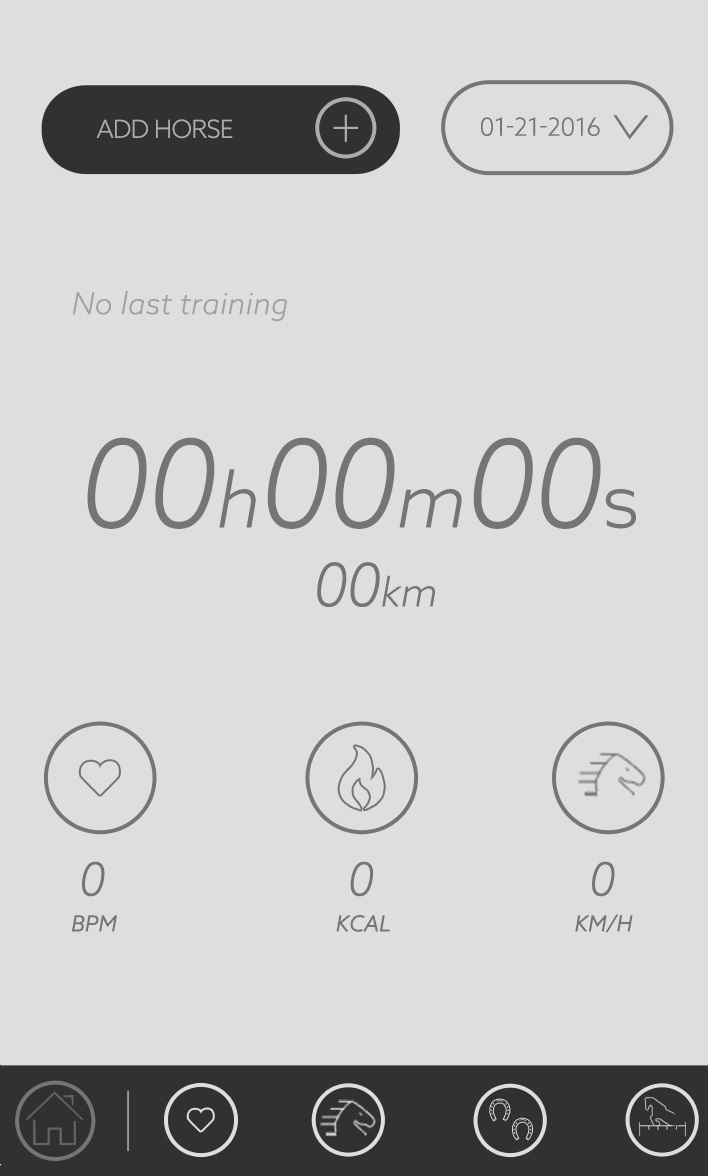
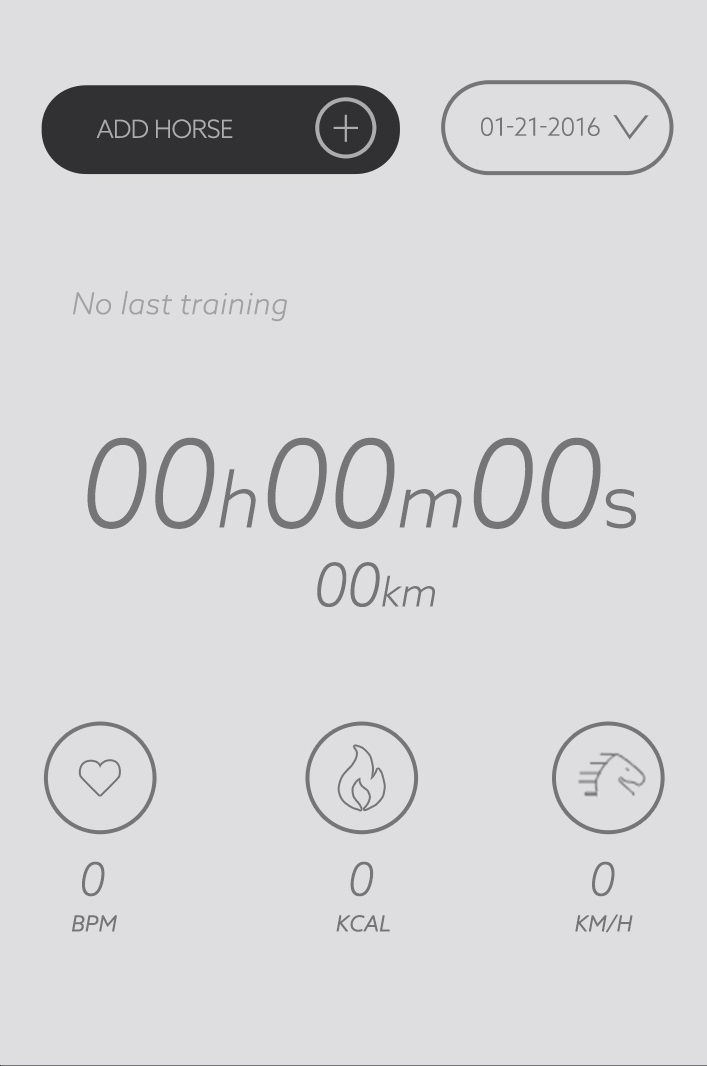
debut phase 2

diff --git a/src/components/createUser.js b/src/components/createUser.js
@@ -1,16 +1,20 @@
 import React, {Component} from 'react';
-import { Text, View } from 'react-native';
+import { Text, View, TouchableOpacity, Image, Platform } from 'react-native';
 import { connect } from 'react-redux';
 import {Button , FormInput, FormLabel, ButtonGroup  } from 'react-native-elements';
 import {distanceSelected,burnCalSelected, weightSelected,
    FirstChanged, lastChanged, weightChanged, createProfil} from '../actions';
+import { ImagePicker } from 'expo';
+import {firebase} from '../firebase/firebase';
+import b64 from 'base64-js'
 
 class CreateUser extends Component {
 
   state ={
     indexdist: 0,
     indexburn:0,
-    indexweight:0
+    indexweight:0,
+    image:''
   }
   FirstChanged =(firstName) =>{
     this.props.FirstChanged(firstName)
@@ -33,7 +37,28 @@ class CreateUser extends Component {
     this.setState({indexweight: index});
     this.props.weightSelected(index);
   }
+  ImageSelected = async () =>{
+    let result = await ImagePicker.launchImageLibraryAsync({
+      base64:true,
+      aspect:[3,5],
+      allowsEditing:true
+    });
 
+    
+
+    if (!result.cancelled) {
+      this.setState({ image: result.uri });
+      const byteArray = b64.toByteArray(result.base64)
+      const metadata = {contentType: 'image/jpg'};
+      firebase.storage().ref('/images').put(byteArray, metadata).then(snapshot => {
+          console.log("uploaded image!")
+      })
+     
+    }
+  }
+
+
+   
   onSubmit=()=>{
     const { email, firstName, lastName ,weight,
     distanceUnit,
@@ -48,21 +73,30 @@ class CreateUser extends Component {
     return (
       
       <View style={{marginTop:80}}>
-     
+      
       <View style={styles.containerStyle}>
-      <View style={{ marginBottom: 10}}>
+      <View style={{justifyContent:'center', alignItems:'center', margin:15}}>
+      <TouchableOpacity 
+      onPress={this.ImageSelected}
+      style={{borderColor:'#fff', borderWidth:1,width:100, height:100, 
+      borderRadius:50, justifyContent:'center', alignItems:'center'}}>
+      <Image source={this.state.image ? {uri: this.state.image}:require('../../image/icon/Avatar.png')}
+      style={{borderColor:'#fff', borderWidth:1,width:100, height:100, 
+      borderRadius:50}}/>
+      </TouchableOpacity>
+      </View>
+
+      <View style={{ marginBottom: 20}}>
         <FormInput
          placeholder="FIRST NAME"
          value={this.props.auth.firstName}
          onChangeText={this.FirstChanged}
          inputStyle={styles.inputFormStyle}
          containerStyle={styles.containerFormStyle}
-        
-        
         />
       </View>
 
-      <View style={{ marginBottom: 10 }}>
+      <View style={{ marginBottom: 20 }}>
         <FormInput
          placeholder="LAST NAME"
          value={this.props.auth.lastName}
@@ -71,7 +105,8 @@ class CreateUser extends Component {
          containerStyle={styles.containerFormStyle}
          />
       </View>
-      <View style={{ marginBottom: 10 }}>
+
+      <View style={{ marginBottom: 20 }}>
       <FormInput
        placeholder="WEIGHT"
        value={this.props.auth.weight}
@@ -81,6 +116,7 @@ class CreateUser extends Component {
        keyboardType={'numeric'}
        />
     </View>
+
     </View>
     <View style={{borderBottomColor: '#BEC0C0' , marginLeft:35,marginRight:35, borderBottomWidth: 2,}} />
     
@@ -134,8 +170,8 @@ class CreateUser extends Component {
     <Button title="DONE"
     onPress={this.onSubmit} 
     borderRadius={30} textStyle={{fontSize: 20 }}
-    containerViewStyle={{width:200 }}
-    buttonStyle={{ backgroundColor:'#757575'}}/>
+    containerViewStyle={{width:200, marginBottom:10 }}
+    buttonStyle={{backgroundColor:'#757577'}} />
     </View>
       </View>
     );
@@ -148,14 +184,14 @@ const mapStateToProps = (state) =>{
 }
 const styles = {
   containerStyle:{
-    backgroundColor: '#BEC0C0',
+    backgroundColor: '#ACACAE',
     margin:30,
     borderRadius: 15,
     borderWidth: 1,
-    borderColor: '#BEC0C0',
+    borderColor: '#ACACAE',
   },
   containerFormStyle:{
-    borderBottomColor:'#D7D8D8',
+    borderBottomColor:'#BEC0C0',
      
   },
   inputFormStyle:{
@@ -164,9 +200,11 @@ const styles = {
     width:'100%'
   },
   labelStyle:{
-    color:'#919191',
+    color:'grey',
     fontSize:10,
-    fontWeight:'400'
+    fontWeight:'400',
+    marginTop:20,
+    marginBottom:10
   },
   bouttonContainerStyle:{
     height: 30,

diff --git a/src/screens/Home.js b/src/screens/Home.js
@@ -1,25 +1,27 @@
 import React, {Component} from 'react';
-import { Text, View, ImageBackground } from 'react-native';
+import { Text, View, ImageBackground,Image } from 'react-native';
 import { Button} from 'react-native-elements';
 import Icon from 'react-native-vector-icons/MaterialCommunityIcons';
 
 export default class Home extends Component {
   static navigationOptions= ({ navigation})=>({
-//     title: 'Seaver',
-//     headerLeft: (
-//       <Button 
-          
-//           icon={{ name: 'menu',
-//         color:'black',
-//       size: 35}}
-//           onPress={()=>navigation.navigate('DrawerToggle')}
-//           backgroundColor="rgba(0,0,0,0)"
-//           color="rgba(0,122,255,1)"
-//           />),
-//       headerTitleStyle: {
-//         fontSize: 25,
-//               // marginTop: Platform.OS === 'android' ? 24 : 0
-//        },
+    tabBarIcon:  ({ tintColor }) => (
+      <View style={{borderRightWidth:1, borderRightColor:'#9B9B9D',
+      height:36,
+      width:48,
+      alignItems:'center'}}>
+      <View style={{borderColor:'#9B9B9D',
+      borderWidth:2,
+      borderRadius:18,
+      height:36,
+      width:36,
+      alignItems:'center'
+      }}><Image
+        source={require('../../image/icon/Home_LightGrey.png')}
+        style={[styles.icon, {tintColor: tintColor}]}
+      /></View></View>
+    ),
+    
     
       drawerLabel: 'START TRAINING',
        drawerIcon: ({ tintColor})=> {
@@ -40,3 +42,9 @@ export default class Home extends Component {
     );
   }
 }
+const styles = {
+  icon: {
+    width: 26,
+    height: 26,
+  }
+};

diff --git a/src/navigations/Screens.js b/src/navigations/Screens.js
@@ -1,5 +1,5 @@
 import React from 'react';
-import { StackNavigator, TabView } from 'react-navigation';
+import { StackNavigator, TabNavigator } from 'react-navigation';
 import Home from '../screens/Home';
 import Calibrations from '../screens/Calibrations';
 import Friends from '../screens/Friends';
@@ -10,9 +10,40 @@ import Settings  from '../screens/Settings';
 import Training from '../screens/Training';
 import Calendrier from '../screens/Calendrier';
 import ImageHeader from '../components/Header';
+import Test from '../screens/Test';
 
 const HomeMenu = StackNavigator({
-    homemenu : { screen: Home },
+    homemenu : { 
+        screen: TabNavigator({
+            home: {screen: Home},
+            test1: {screen: Test},
+            test2: {screen: Test},
+            test3: {screen: Test},
+            test4: {screen: Test}
+            
+          },{
+            tabBarPosition: 'bottom',
+           
+            swipeEnabled: false, //android swipe default
+            tabBarOptions:{
+              labelStyle: { fontSize:12},
+              showIcon: true,
+              showLabel:false,
+              iconStyle: {
+                width: 30,
+                height: 30
+                
+              },
+              style:{
+                  backgroundColor:'#313133'
+              },
+              activeTintColor:'#9B9B9D',
+              inactiveTintColor:'#9B9B9D'
+            
+            }
+          })
+
+     }
   
 },{
     navigationOptions:{

diff --git a/src/components/Login.js b/src/components/Login.js
@@ -30,7 +30,7 @@ facebookLogin = () =>{
       return <View style={{height:'100%'}}><Spinner size="large"/></View>
     }
    return (
-      <View style={{marginTop:60}}>
+      <View style={{marginTop:60, backgroundColor:'#DEDEE0',flex:1}}>
         <View style={{flexDirection: 'row', justifyContent: 'space-around'}}>
          <Button icon={{name: 'facebook' , type: 'entypo', size: 40}} containerViewStyle={styles.buttonContainer}
          buttonStyle={styles.buttonFb}   onPress={this.facebookLogin}/>
@@ -71,7 +71,9 @@ facebookLogin = () =>{
         <View style={{marginTop: 60, justifyContent:'center', alignItems:'center'}}>
         <Button borderRadius={30} textStyle={{fontSize: 20 }}
         containerViewStyle={{width:170}}
-        title="LOGIN" onPress={this.onSubmit}/>
+        title="LOGIN"
+        buttonStyle={{backgroundColor:'#757577'}}
+        onPress={this.onSubmit}/>
         </View>
         </View>
         <Text>{this.props.auth.error}</Text>
@@ -94,10 +96,10 @@ const styles = {
   buttonFb:{
     width:150,
     height:45,
-    backgroundColor: '#3b5998',
+    backgroundColor: '#385B9B',
     borderRadius: 10,
     borderWidth: 1, 
-    borderColor:'#3b5998'
+    borderColor:'#385B9B'
   },
   buttonGoogle:{
     width:150,

diff --git a/src/components/registerForm.js b/src/components/registerForm.js
@@ -77,7 +77,7 @@ import Spinner from './Spinner';
           <Button  borderRadius={25}
           title="REGISTER" onPress={this.onSubmit}
           textStyle={{fontSize: 25 }}
-          buttonStyle={{margin: 20}}
+          buttonStyle={{margin: 20, backgroundColor:'#757577'}}
           containerViewStyle={{marginTop:25}}/> 
           </View>
           <Text>{this.props.auth.error}</Text>
@@ -123,11 +123,11 @@ import Spinner from './Spinner';
       paddingRight:40
     },
     formStyle:{
-      backgroundColor: '#BEC0C0',
+      backgroundColor: '#ACACAE',
       margin: 25,
       borderRadius: 10,
       borderWidth: 1,
-      borderColor: '#BEC0C0',
+      borderColor: '#ACACAE',
       paddingTop: 15,
       paddingLeft:15,
       paddingRight:15

diff --git a/src/components/Register.js b/src/components/Register.js
@@ -10,7 +10,7 @@ import CreateUser from './createUser';
   }
   render() {
    
-    if(this.props.auth.uid === null){
+    if(!this.props.auth.uid === null){
       return (
         <View>
         <RegisterForm />
